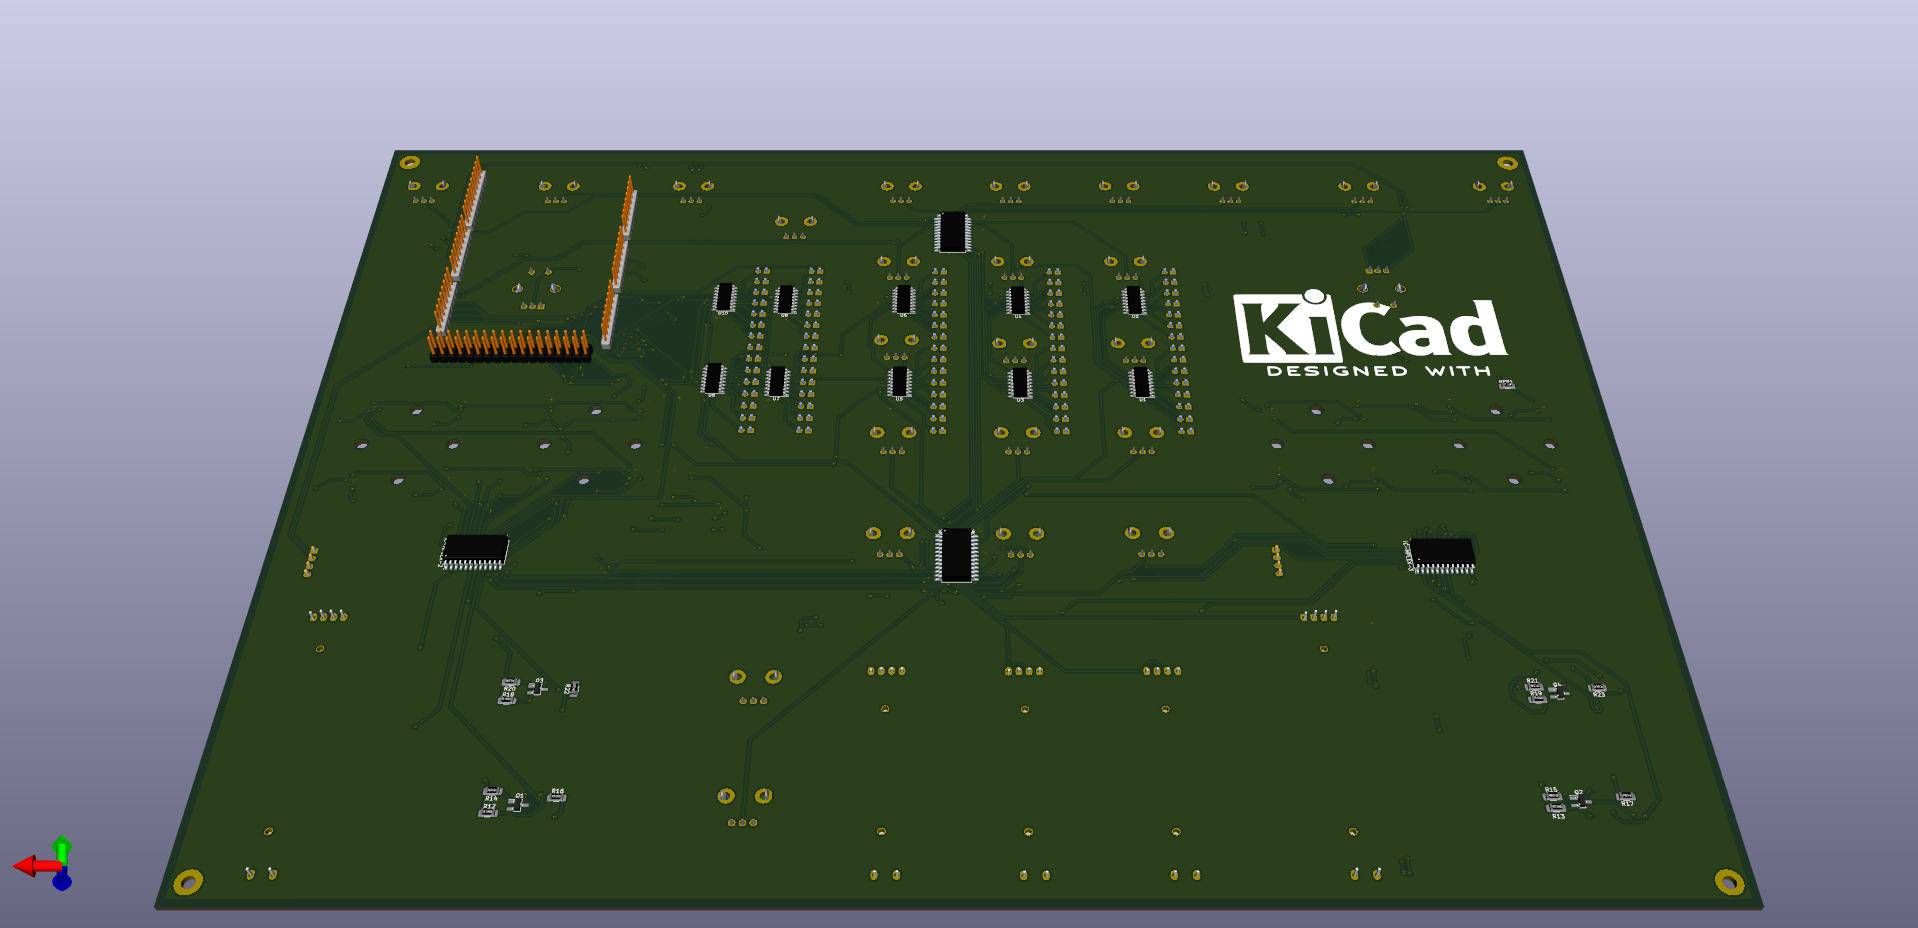
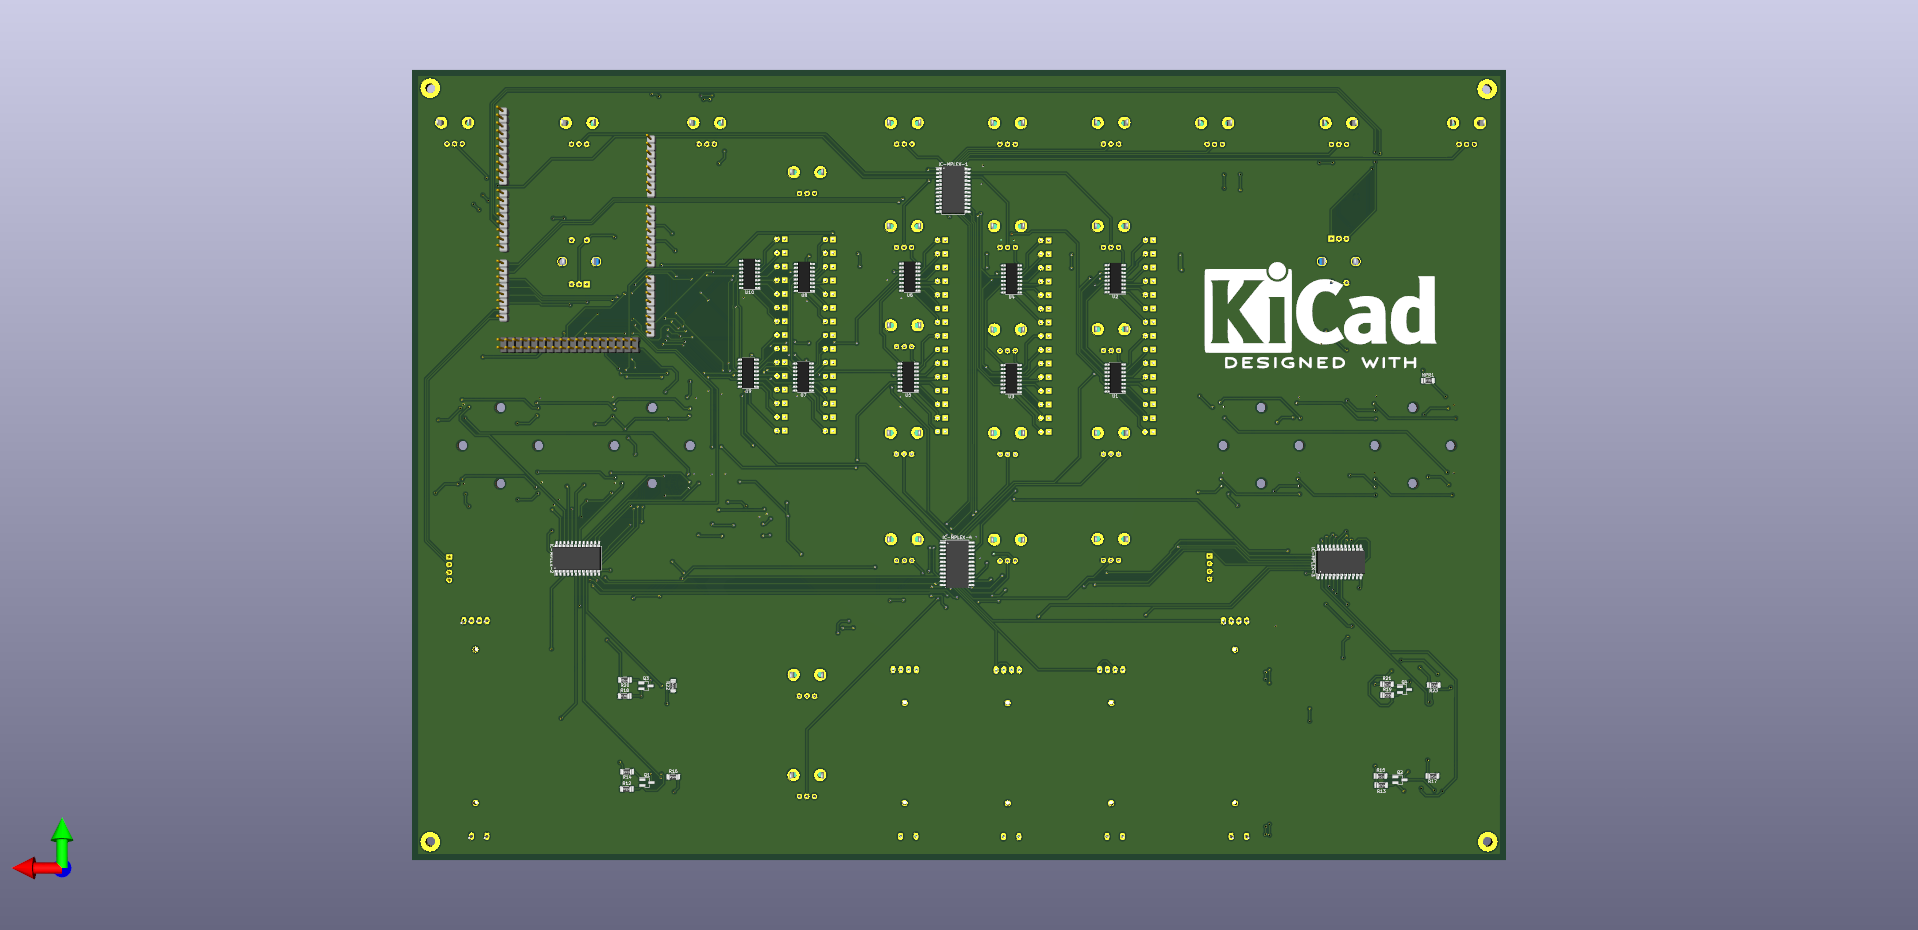
update renders top back

diff --git a/README.md b/README.md
@@ -16,7 +16,9 @@ This project actually are WIP.
 </br>
 ![preview](https://github.com/jvegaf/mixduino/blob/tmp/docs/images/Mixduino.png)
 </br>
-![previewTop](https://github.com/jvegaf/mixduino/blob/tmp/docs/images/Mixduino-back.png)
+![previewTop](https://github.com/jvegaf/mixduino/blob/tmp/docs/images/Mixduino-top.png)
+</br>
+![previewBack](https://github.com/jvegaf/mixduino/blob/tmp/docs/images/Mixduino-back.png)
 </br>
 ![previewPCB](https://github.com/jvegaf/mixduino/blob/master/docs/images/Mixduino-pcb.png)
 
